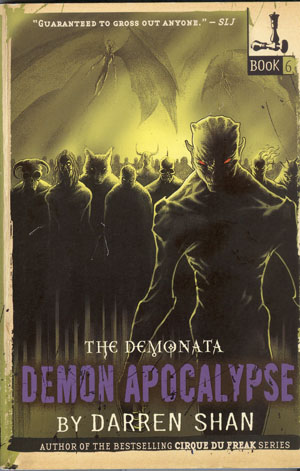
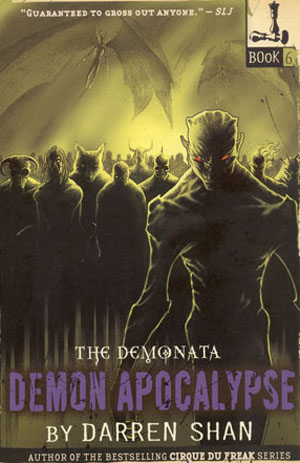
pictures

diff --git a/Gregor.htm b/Gregor.htm
@@ -50,19 +50,15 @@
 </p>
 <table width="68%" border="0">
   <tr>
-    <td width="16%"><a href="Theburningbridg.htm"><img src="smallimage/burningbridge.jpg" width="100" height="150" alt="the burnig bridge" longdesc="smallimage/burningbridge.jpg"></a></td>
-    <td width="16%"><a href="Theiceboundland.htm"><img src="smallimage/theiceboundland_small.jpg" width="100" height="154" alt="theice bound land" longdesc="smallimage/theiceboundland_small.jpg"></a></td>
-    <td width="13%"><a href="Thebattleforskandia.htm"><img src="smallimage/battleForSkandia.jpg" width="100" height="146" alt="battleForSkandia" longdesc="smallimage/battleForSkandia.jpg"></a></td>
-    <td width="13%"><a href="Thesorcererofthenorth.htm"><img src="smallimage/Thesorcererofthenorth_small.jpg" width="100" height="153" alt="sorsererof the north"></a></td>
-    <td width="15%"><a href="SiegeofMicindaw.htm"><img src="smallimage/Thesiegeofmacindaw_small.jpg" width="100" height="152" alt="siege of macindaw"></a></td>
-    <td width="27%">&nbsp;</td>
+    <td width="16%"><img src="images/Gregor_Prophecy_of_Bane.jpg" width="150" height="266" alt="Prophecy of bane" longdesc="images/Gregor_Prophecy_of_Bane.jpg"></td>
+    <td width="16%"><img src="images/Gregor_Curse_of_the_Warmbloods.jpg" width="150" height="266" alt="curse of the warmbloods" longdesc="images/Gregor_Curse_of_the_Warmbloods.jpg"></td>
+    <td width="13%"><img src="images/Gregor_Marks_of_secret.jpg" width="150" height="266" alt="Mark of Secret" longdesc="images/Gregor_Marks_of_secret.jpg"></td>
+    <td width="13%"><img src="images/Gregor_code_of_claw.jpg" width="150" height="266" alt="Code of Claw" longdesc="images/Gregor_code_of_claw.jpg"></td>
   </tr>
   <tr>
-    <td><p>The burning bridge      book 2 </p></td>
-    <td><p>The ice bound land    book 3</p></td>
-    <td><p>Battle for skandia    book 4</p></td>
-    <td><p>The sorcerer of the north    book 5</p></td>
-    <td><p>Siege of Micindaw    book 6</p></td>
+    <td><p>&nbsp;</p></td>
+    <td><p>&nbsp;</p></td>
+    <td><p>&nbsp;</p></td>
     <td><p>&nbsp;</p></td>
   </tr>
 </table>

diff --git a/fallofreach.htm b/fallofreach.htm
@@ -23,7 +23,31 @@
  <hr />
  <p><img src="images/ar.gif" align="right" />
 <a href="index.htm">Return Home</a></p>
- <address>Page modified on April 29, 2011</address>
+ <address>Page modified on April 29, 2011
+ </address>
+ <table width="86%" border="0" align="center">
+   <tr>
+     <td width="24%" align="center"><img src="images/Halo_Flood.jpg" width="150" height="266" alt="Halo the flood" longdesc="images/Halo_Flood.jpg"></td>
+     <td width="14%" align="center">&nbsp;</td>
+     <td width="29%" align="center"><img src="images/halo_ghosts_onyx.jpg" width="150" height="266" alt="Ghosts of Onyx" longdesc="images/halo_ghosts_onyx.jpg"></td>
+     <td width="33%" align="center"><img src="images/halo_contact_harvest.jpg" alt="Contact harvest" width="150" height="266" align="middle" longdesc="images/halo_contact_harvest.jpg"></td>
+     <td width="33%" align="center"><img src="images/halo_cole_protocol.jpg" width="150" height="266" alt="Cole protocol" longdesc="images/halo_cole_protocol.jpg"></td>
+   </tr>
+   <tr>
+     <td height="69" align="center"><p>&nbsp;</p>
+       <p>book 2</p></td>
+     <td align="center"><p>&nbsp;</p>
+       <p> book3</p></td>
+     <td height="69" align="center"><p>&nbsp;</p>
+       <p>book 4</p></td>
+     <td height="69" align="center"><p>&nbsp;</p>
+     <p>book 5</p></td>
+     <td align="center"><p>&nbsp;</p>
+     <p>book 6</p></td>
+   </tr>
+ </table>
+ <address>
+ </address>
 </body>
 
 

diff --git a/demonapocolypse.htm b/demonapocolypse.htm
@@ -4,15 +4,13 @@
 <title>Demon Apocalypse - Darren Shan</title>
 <h1>Demon Apocalypse</h1>
 
-<img src="images/13reasonswhy.jpg" width="200" height="300" class="cover">
+<img src="images/demonapocalypse.jpg" width="150" height="266" class="cover">
 
 
 
 <br />
 <p><b>Author: </b>Darren Shan
-<p>
-
-<p><b>Published:</b><strong> 2007</strong>2007</P>
+<p><b>Published:</b><strong> 2007</strong></P>
 
 <p><b>Genre: </b>Fantasy/Sci-Fi</P>
 
